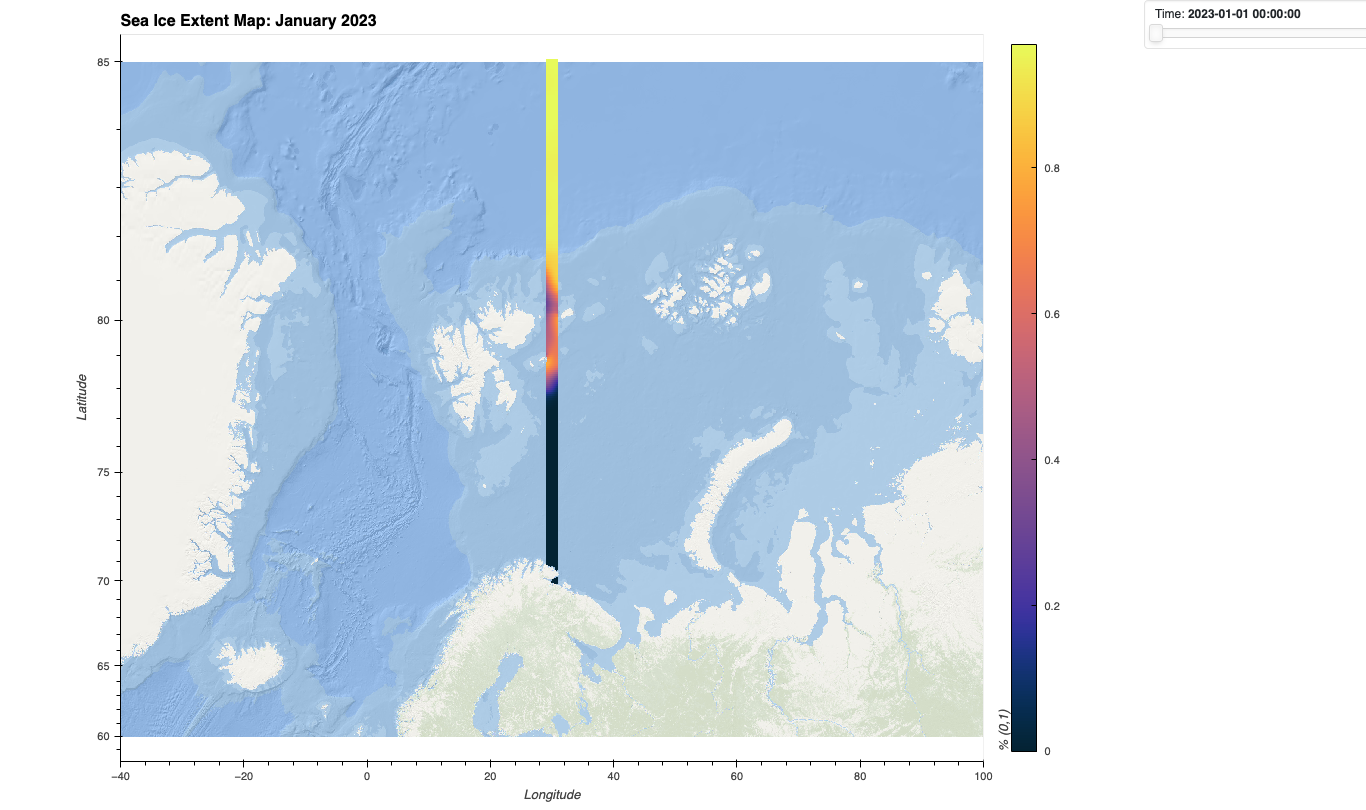
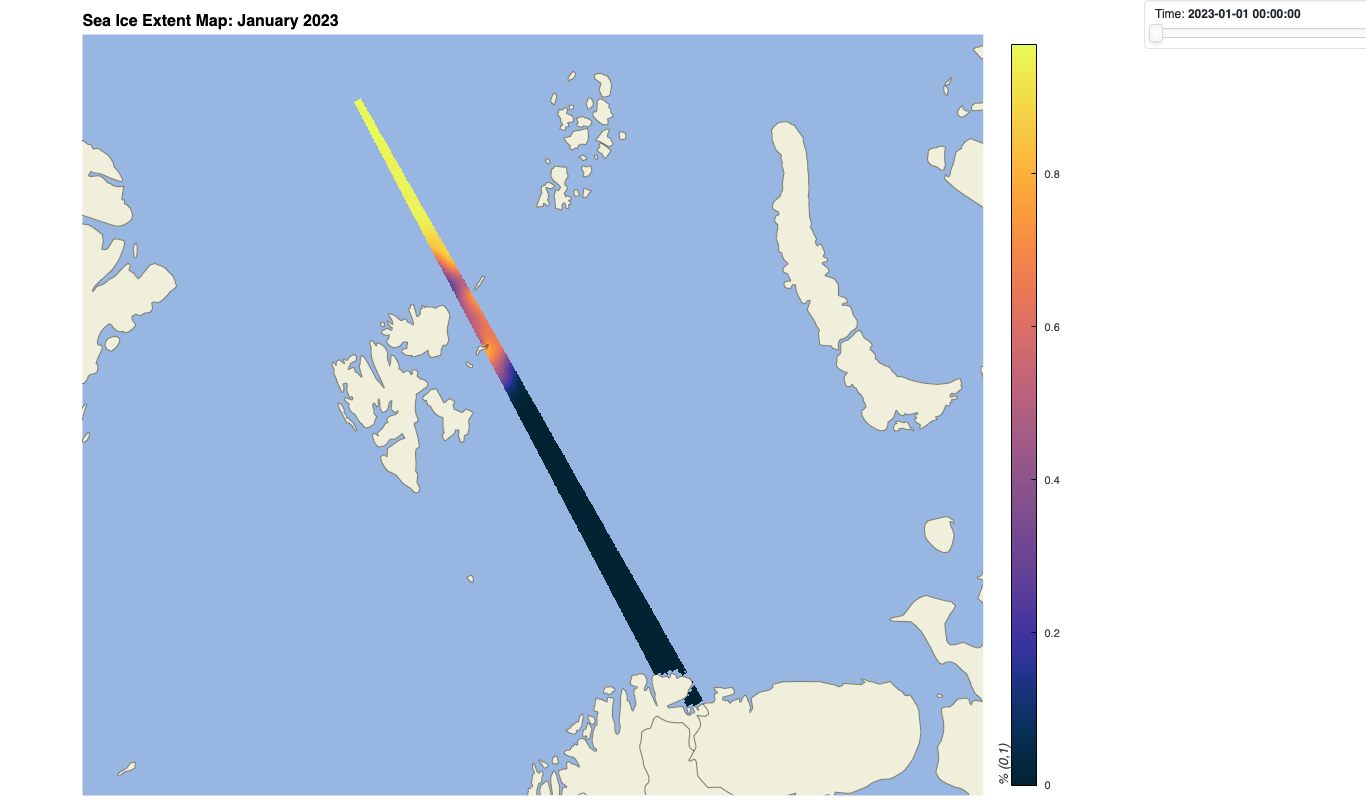
added 50m features rather than platecarree basemap

diff --git a/core.py b/core.py
@@ -115,13 +115,13 @@ class ModelEntry:
                     colourmap = cmo.thermal
                 else:
                     raise Exception(f"Unknown colourmap: {self.variable[j].colourmap}")
-                tiles = gv.tile_sources.EsriOceanBase()
+                # tiles = gv.tile_sources.EsriOceanBase()
 
-                hvplots = gv.util.get_tile_rgb(tiles, bbox=(-40, 60, 100, 85),
-                                               zoom_level=5).opts(width=1000,
-                                                                height=800,
-                                                                #projection=ccrs.NorthPolarStereo()
-                                                                  )
+                # hvplots = gv.util.get_tile_rgb(tiles, bbox=(-40, 60, 100, 85),
+                #                                zoom_level=5).opts(width=1000,
+                #                                                 height=800,
+                #                                                 #projection=ccrs.NorthPolarStereo()
+                #                                                   )
                 # Plot with HoloViews (heatmap with contours)
                 heatmap = slice_ds.hvplot.quadmesh(
                     y='latitude',
@@ -133,12 +133,12 @@ class ModelEntry:
                     height=800,
                     clabel=self.variable[j].units,
                     clim=(min_valid_vals, max_valid_vals),
-                    crs=ccrs.PlateCarree(), #projection=ccrs.NorthPolarStereo(),
+                    crs=ccrs.PlateCarree(), projection=ccrs.NorthPolarStereo(),
                     project=True, rasterize=True,
-                    # features={"coastline":'10m','borders':'10m','ocean':'10m','land':'10m'},
+                    features={"coastline":'50m','borders':'50m','ocean':'50m','land':'50m'},
 
                 )
-                self.__export(hvplots*heatmap, html=html, var_name=self.variable[j].name, month=self.month[i])
+                self.__export(heatmap, html=html, var_name=self.variable[j].name, month=self.month[i])
 
 
 

diff --git a/main.py b/main.py
@@ -31,7 +31,7 @@ def main():
     creates transect plots, using the extent and Model Entries that are specified.
     :return:
     """
-    html = False
+    html = True
 
     extent = Extent(year=2023,
                     north=85,
